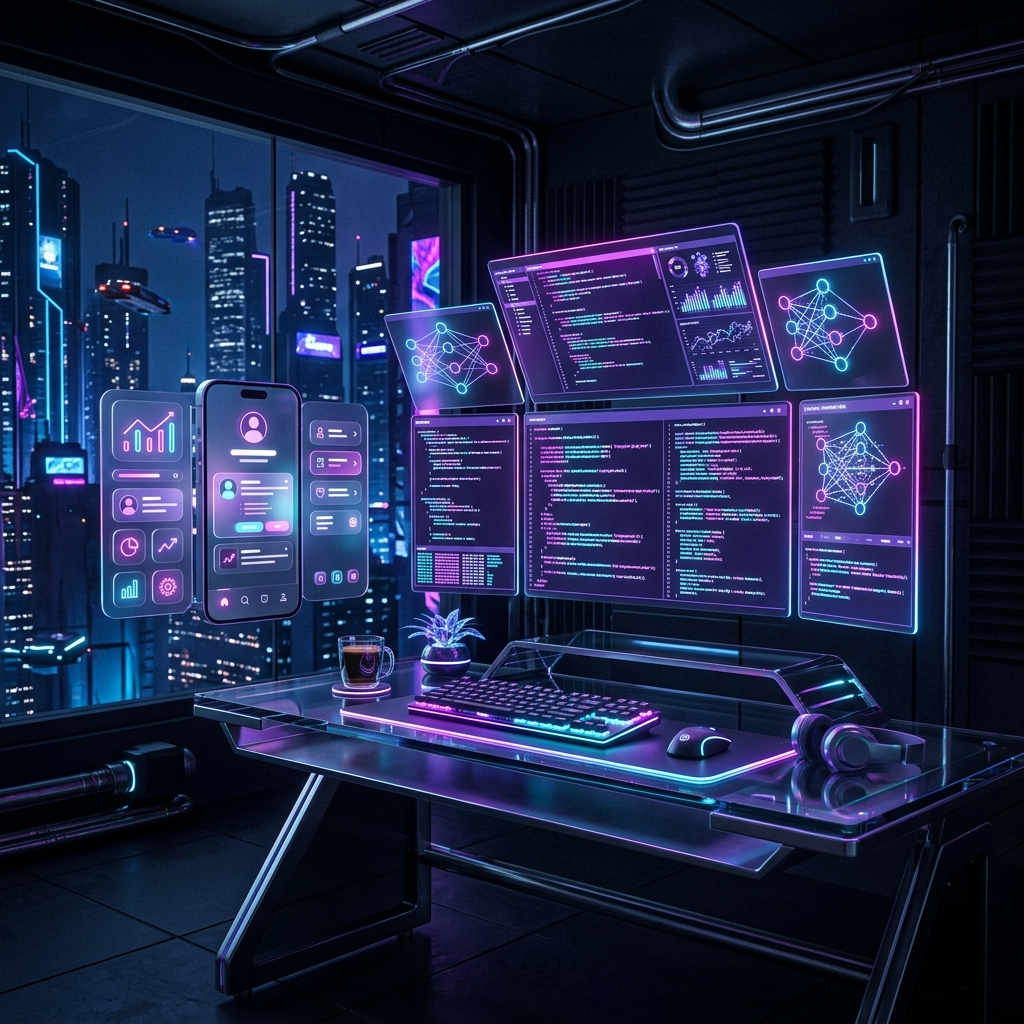
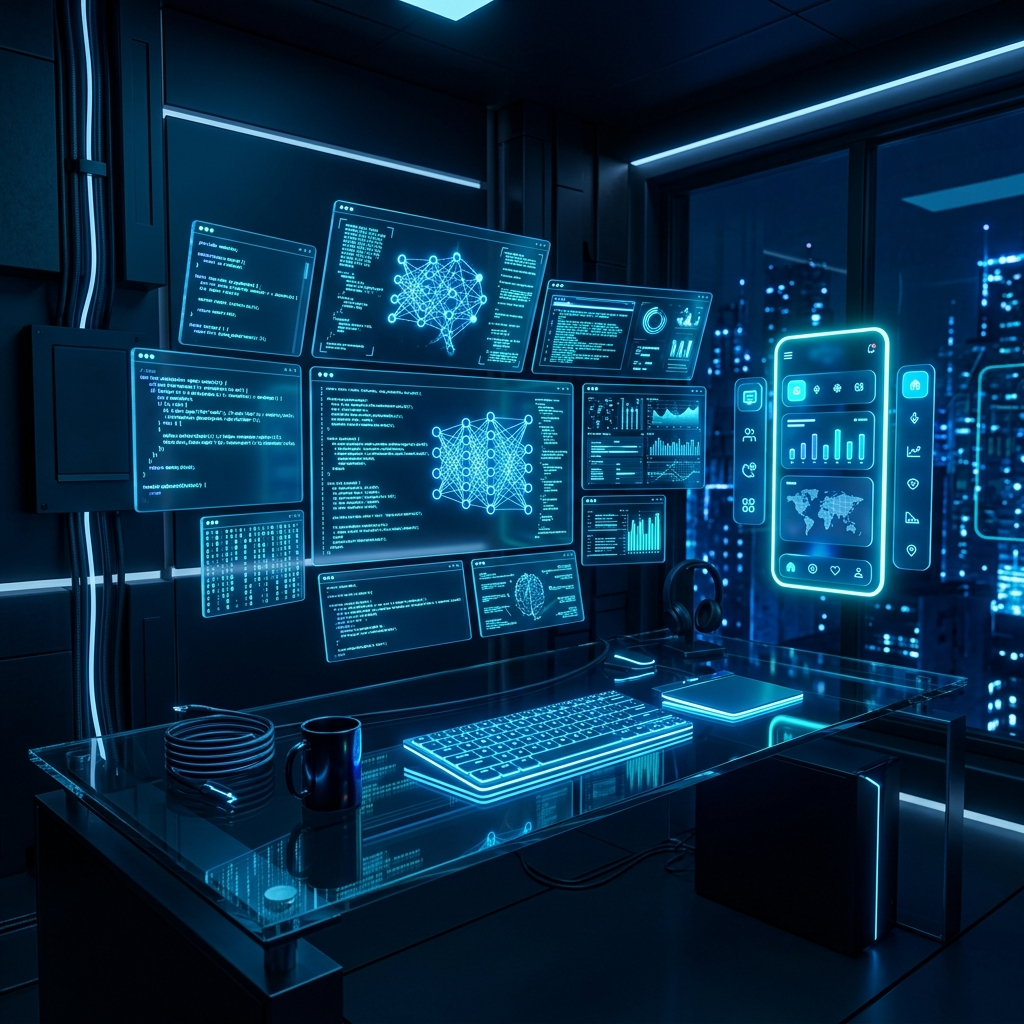
feat: restore original skill tables, unify theme with deep blue and cyan styling

diff --git a/README.md b/README.md
@@ -1,19 +1,19 @@
 <div align="center">
-  <!-- Custom 3D Cyberpunk Workspace Header Image -->
-  <img src="image/cyberpunk_workspace.png" alt="Xavia Workspace" width="100%" style="border-radius: 16px; box-shadow: 0px 8px 32px rgba(139, 92, 246, 0.25); border: 1px solid #8b5cf6;" />
+  <!-- Custom 3D Cyberpunk Workspace Header Image (Blue Theme) -->
+  <img src="image/cyberpunk_workspace.png" alt="Xavia Workspace" width="100%" style="border-radius: 16px; box-shadow: 0px 8px 32px rgba(0, 180, 216, 0.25); border: 1px solid #00b4d8;" />
   
   <br/><br/>
   
-  <!-- Typing SVG with URL encoding fixed -->
+  <!-- Typing SVG (Blue Theme) -->
   <a href="https://git.io/typing-svg">
-    <img src="https://readme-typing-svg.demolab.com?font=Inter&size=24&duration=3000&pause=1000&color=06B6D4&center=true&vCenter=true&multiline=true&repeat=true&width=900&height=100&lines=Hi%20there!%20I'm%20Anh%20Nguyen%20%F0%9F%91%8B%3BFull-Stack%20Software%20Developer%3BPassionate%20about%20AI%20and%20Mobile%20Apps%3BBuilding%20delightful%20user%20experiences%20%E2%9A%A1" alt="Typing SVG" />
+    <img src="https://readme-typing-svg.demolab.com?font=Inter&size=24&duration=3000&pause=1000&color=00B4D8&center=true&vCenter=true&multiline=true&repeat=true&width=900&height=100&lines=Hi%20there!%20I'm%20Anh%20Nguyen%20%F0%9F%91%8B%3BFull-Stack%20Software%20Developer%3BPassionate%20about%20AI%20and%20Mobile%20Apps%3BBuilding%20delightful%20user%20experiences%20%E2%9A%A1" alt="Typing SVG" />
   </a>
 
-  <!-- Sleek Cyber Badges -->
+  <!-- Sleek Blue Badges -->
   <p>
-    <img src="https://komarev.com/ghpvc/?username=nhutanhmc&label=Profile%20Views&color=06B6D4&style=for-the-badge" alt="Profile Views" />
-    <img src="https://img.shields.io/github/followers/nhutanhmc?label=Followers&style=for-the-badge&color=06B6D4&labelColor=0f172a" alt="GitHub Followers" />
-    <img src="https://img.shields.io/github/stars/nhutanhmc?label=Stars&style=for-the-badge&color=06B6D4&labelColor=0f172a" alt="GitHub Stars" />
+    <img src="https://komarev.com/ghpvc/?username=nhutanhmc&label=Profile%20Views&color=00B4D8&style=for-the-badge" alt="Profile Views" />
+    <img src="https://img.shields.io/github/followers/nhutanhmc?label=Followers&style=for-the-badge&color=00B4D8&labelColor=0f172a" alt="GitHub Followers" />
+    <img src="https://img.shields.io/github/stars/nhutanhmc?label=Stars&style=for-the-badge&color=00B4D8&labelColor=0f172a" alt="GitHub Stars" />
   </p>
 </div>
 
@@ -52,22 +52,192 @@ const developer = {
     <td width="45%" valign="top" align="center">
       <br/><br/>
       <!-- Interactive Developer GIF -->
-      <img src="https://raw.githubusercontent.com/devSouvik/devSouvik/master/gif3.gif" width="100%" style="border-radius: 12px; border: 2px solid #06b6d4; box-shadow: 0 4px 15px rgba(6, 182, 212, 0.15);" alt="Cybernetic Animation"/>
+      <img src="https://raw.githubusercontent.com/devSouvik/devSouvik/master/gif3.gif" width="100%" style="border-radius: 12px; border: 2px solid #00b4d8; box-shadow: 0 4px 15px rgba(0, 180, 216, 0.15);" alt="Cybernetic Animation"/>
     </td>
   </tr>
 </table>
 
 ---
 
+<h2 align="center">🌌 HOLOGRAPHIC TECH ORBIT</h2>
+<div align="center">
+  <!-- Interactive animated 3D Tech Orbit SVG (Blue Theme) -->
+  <img src="image/tech_orbit.svg" width="80%" alt="Tech Orbit" style="border-radius: 12px;" />
+</div>
+
+---
+
+<h2 align="center">🛠 Tech Stack & Expertise</h2>
+
+<div align="center">
+
+### 💻 Languages & Core Technologies
+
+<table>
+<tr>
+<td align="center" width="96">
+<img src="https://skillicons.dev/icons?i=js" width="48" height="48" alt="JavaScript" />
+<br>JavaScript
+</td>
+<td align="center" width="96">
+<img src="https://skillicons.dev/icons?i=ts" width="48" height="48" alt="TypeScript" />
+<br>TypeScript
+</td>
+<td align="center" width="96">
+<img src="https://skillicons.dev/icons?i=java" width="48" height="48" alt="Java" />
+<br>Java
+</td>
+<td align="center" width="96">
+<img src="https://skillicons.dev/icons?i=dart" width="48" height="48" alt="Dart" />
+<br>Dart
+</td>
+<td align="center" width="96">
+<img src="https://skillicons.dev/icons?i=html" width="48" height="48" alt="HTML5" />
+<br>HTML5
+</td>
+<td align="center" width="96">
+<img src="https://skillicons.dev/icons?i=css" width="48" height="48" alt="CSS3" />
+<br>CSS3
+</td>
+</tr>
+</table>
+
+### 🚀 Frontend Frameworks & Libraries
+
+<table>
+<tr>
+<td align="center" width="96">
+<img src="https://skillicons.dev/icons?i=react" width="48" height="48" alt="React" />
+<br>React
+</td>
+<td align="center" width="96">
+<img src="https://skillicons.dev/icons?i=nextjs" width="48" height="48" alt="Next.js" />
+<br>Next.js
+</td>
+<td align="center" width="96">
+<img src="https://skillicons.dev/icons?i=vue" width="48" height="48" alt="Vue.js" />
+<br>Vue.js
+</td>
+<td align="center" width="96">
+<img src="https://skillicons.dev/icons?i=flutter" width="48" height="48" alt="Flutter" />
+<br>Flutter
+</td>
+<td align="center" width="96">
+<img src="https://skillicons.dev/icons?i=tailwind" width="48" height="48" alt="Tailwind" />
+<br>Tailwind
+</td>
+<td align="center" width="96">
+<img src="https://skillicons.dev/icons?i=sass" width="48" height="48" alt="Sass" />
+<br>Sass
+</td>
+</tr>
+</table>
+
+### ⚙ Backend & Server Technologies
+
+<table>
+<tr>
+<td align="center" width="96">
+<img src="https://skillicons.dev/icons?i=nodejs" width="48" height="48" alt="Node.js" />
+<br>Node.js
+</td>
+<td align="center" width="96">
+<img src="https://skillicons.dev/icons?i=express" width="48" height="48" alt="Express" />
+<br>Express
+</td>
+<td align="center" width="96">
+<img src="https://skillicons.dev/icons?i=spring" width="48" height="48" alt="Spring" />
+<br>Spring Boot
+</td>
+<td align="center" width="96">
+<img src="https://skillicons.dev/icons?i=graphql" width="48" height="48" alt="GraphQL" />
+<br>GraphQL
+</td>
+<td align="center" width="96">
+<img src="https://skillicons.dev/icons?i=prisma" width="48" height="48" alt="Prisma" />
+<br>Prisma
+</td>
+<td align="center" width="96">
+<img src="https://skillicons.dev/icons?i=nestjs" width="48" height="48" alt="NestJS" />
+<br>NestJS
+</td>
+</tr>
+</table>
+
+### 🗄 Databases & Storage
+
+<table>
+<tr>
+<td align="center" width="96">
+<img src="https://skillicons.dev/icons?i=mongodb" width="48" height="48" alt="MongoDB" />
+<br>MongoDB
+</td>
+<td align="center" width="96">
+<img src="https://skillicons.dev/icons?i=postgresql" width="48" height="48" alt="PostgreSQL" />
+<br>PostgreSQL
+</td>
+<td align="center" width="96">
+<img src="https://skillicons.dev/icons?i=mysql" width="48" height="48" alt="MySQL" />
+<br>MySQL
+</td>
+<td align="center" width="96">
+<img src="https://skillicons.dev/icons?i=redis" width="48" height="48" alt="Redis" />
+<br>Redis
+</td>
+<td align="center" width="96">
+<img src="https://skillicons.dev/icons?i=firebase" width="48" height="48" alt="Firebase" />
+<br>Firebase
+</td>
+<td align="center" width="96">
+<img src="https://skillicons.dev/icons?i=supabase" width="48" height="48" alt="Supabase" />
+<br>Supabase
+</td>
+</tr>
+</table>
+
+### ☁ DevOps & Cloud Services
+
+<table>
+<tr>
+<td align="center" width="96">
+<img src="https://skillicons.dev/icons?i=docker" width="48" height="48" alt="Docker" />
+<br>Docker
+</td>
+<td align="center" width="96">
+<img src="https://skillicons.dev/icons?i=git" width="48" height="48" alt="Git" />
+<br>Git
+</td>
+<td align="center" width="96">
+<img src="https://skillicons.dev/icons?i=github" width="48" height="48" alt="GitHub" />
+<br>GitHub
+</td>
+<td align="center" width="96">
+<img src="https://skillicons.dev/icons?i=vercel" width="48" height="48" alt="Vercel" />
+<br>Vercel
+</td>
+<td align="center" width="96">
+<img src="https://skillicons.dev/icons?i=aws" width="48" height="48" alt="AWS" />
+<br>AWS
+</td>
+<td align="center" width="96">
+<img src="https://skillicons.dev/icons?i=vscode" width="48" height="48" alt="VS Code" />
+<br>VS Code
+</td>
+</tr>
+</table>
+
+</div>
+
+---
+
 <h2 align="center">🔮 3D CONTRIBUTION LANDSCAPE</h2>
 <div align="center">
-  <!-- Night Rainbow 3D graph (using correct name that exists) -->
-  <img src="profile-3d-contrib/profile-night-rainbow.svg" width="100%" alt="3D Contribution Graph" style="border-radius: 12px; border: 1px solid #1e293b;" />
+  <img src="profile-3d-contrib/profile-night-view.svg" width="100%" alt="3D Contribution Graph" style="border-radius: 12px; border: 1px solid #1e293b;" />
 </div>
 
 <br/>
 
-<h2 align="center">🐍 SNAKE CONTRIBUTION GRID</h2>
+<h2 align="center">🐍 BLUE SNAKE CONTRIBUTION GRID</h2>
 <div align="center">
   <picture>
     <source media="(prefers-color-scheme: dark)" srcset="dist/github-contribution-grid-snake-dark.svg" />
@@ -78,36 +248,28 @@ const developer = {
 
 ---
 
-<h2 align="center">🛠 TECH ORBIT MATRIX</h2>
-<div align="center">
-  <!-- Interactive animated 3D Tech Orbit SVG -->
-  <img src="image/tech_orbit.svg" width="80%" alt="Tech Orbit" style="border-radius: 12px;" />
-</div>
-
----
-
 <h2 align="center">📊 PERFORMANCE METRICS</h2>
 <div align="center">
   <table border="0" width="100%">
     <tr>
       <td align="center" width="50%">
-        <img src="https://github-stats-extended.vercel.app/api?username=nhutanhmc&show_icons=true&theme=tokyonight&hide_border=true&border_radius=12&bg_color=0d1117" alt="GitHub Stats" width="100%" />
+        <img src="https://github-stats-extended.vercel.app/api?username=nhutanhmc&show_icons=true&title_color=00b4d8&icon_color=00b4d8&text_color=ffffff&bg_color=0d1117&hide_border=true&border_radius=12" alt="GitHub Stats" width="100%" />
       </td>
       <td align="center" width="50%">
-        <img src="https://github-stats-extended.vercel.app/api/top-langs/?username=nhutanhmc&layout=compact&theme=tokyonight&hide_border=true&border_radius=12&bg_color=0d1117&langs_count=6" alt="Top Languages" width="100%" />
+        <img src="https://github-stats-extended.vercel.app/api/top-langs/?username=nhutanhmc&layout=compact&title_color=00b4d8&icon_color=00b4d8&text_color=ffffff&bg_color=0d1117&hide_border=true&border_radius=12&langs_count=6" alt="Top Languages" width="100%" />
       </td>
     </tr>
     <tr>
       <td align="center" width="50%">
-        <img src="https://github-readme-streak-stats.herokuapp.com/?user=nhutanhmc&theme=tokyonight&hide_border=true&border_radius=12&background=0d1117" alt="GitHub Streak" width="100%" />
+        <img src="https://github-readme-streak-stats.herokuapp.com/?user=nhutanhmc&theme=tokyonight&hide_border=true&border_radius=12&background=0d1117&ring=00b4d8&fire=00b4d8&currStreakLabel=00b4d8" alt="GitHub Streak" width="100%" />
       </td>
       <td align="center" width="50%">
-        <img src="https://github-profile-summary-cards.vercel.app/api/cards/productive-time?username=nhutanhmc&theme=nord_dark&utcOffset=7" alt="Productive Time" width="100%" />
+        <img src="https://github-profile-summary-cards.vercel.app/api/cards/productive-time?username=nhutanhmc&theme=nightowl&utcOffset=7" alt="Productive Time" width="100%" />
       </td>
     </tr>
   </table>
   <br/>
-  <img src="https://github-readme-activity-graph.vercel.app/graph?username=nhutanhmc&bg_color=0d1117&color=87CEEB&line=4A90E2&point=ffffff&area=true&hide_border=true&custom_title=Contribution%20Activity%20Graph&radius=12" width="100%" alt="Contribution Graph"/>
+  <img src="https://github-readme-activity-graph.vercel.app/graph?username=nhutanhmc&bg_color=0d1117&color=00b4d8&line=0077b6&point=ffffff&area=true&hide_border=true&custom_title=Contribution%20Activity%20Graph&radius=12" width="100%" alt="Contribution Graph"/>
 </div>
 
 ---
@@ -147,9 +309,39 @@ const developer = {
 
 ---
 
+<h2 align="center">💡 SERVICE MATRIX (WHAT I DO)</h2>
+<div align="center">
+  <table width="100%">
+    <tr>
+      <td align="center" width="25%">
+        <img src="https://raw.githubusercontent.com/Tarikul-Islam-Anik/Microsoft-Teams-Animated-Emojis/master/Emojis/Objects/Desktop%20Computer.png" width="60" alt="Frontend" />
+        <h4>Frontend</h4>
+        <p>Interactive web interfaces, responsive modules, and responsive layout styling</p>
+      </td>
+      <td align="center" width="25%">
+        <img src="https://raw.githubusercontent.com/Tarikul-Islam-Anik/Microsoft-Teams-Animated-Emojis/master/Emojis/Objects/Gear.png" width="60" alt="Backend" />
+        <h4>Backend</h4>
+        <p>Highly scalable API interfaces, backend servers, and database integration</p>
+      </td>
+      <td align="center" width="25%">
+        <img src="https://raw.githubusercontent.com/Tarikul-Islam-Anik/Microsoft-Teams-Animated-Emojis/master/Emojis/Objects/Mobile%20Phone.png" width="60" alt="Mobile" />
+        <h4>Mobile</h4>
+        <p>Cross-platform application packaging using Flutter with native speed</p>
+      </td>
+      <td align="center" width="25%">
+        <img src="https://raw.githubusercontent.com/Tarikul-Islam-Anik/Microsoft-Teams-Animated-Emojis/master/Emojis/Travel%20and%20places/Rocket.png" width="60" alt="Optimization" />
+        <h4>Optimization</h4>
+        <p>SEO index tuning, load balancing, speed profiling, and high code quality</p>
+      </td>
+    </tr>
+  </table>
+</div>
+
+---
+
 <h2 align="center">🎵 AUDIO PROTOCOL (SOUNDTRACK)</h2>
 <div align="center">
-  <!-- Interactive animated Cyberpunk Music Player SVG -->
+  <!-- Interactive animated Cyberpunk Music Player SVG (Blue Theme) -->
   <img src="image/music_player.svg" width="60%" alt="Audio Terminal" style="border-radius: 15px;" />
 </div>
 
@@ -157,10 +349,10 @@ const developer = {
 
 <h2 align="center">📫 ESTABLISH COMMUNICATIONS</h2>
 <p align="center">
-  <a href="https://github.com/nhutanhmc" target="_blank"><img src="https://img.shields.io/badge/GitHub-181717?style=for-the-badge&logo=github&logoColor=white&labelColor=181717&color=4A90E2" alt="GitHub"/></a>
-  <a href="https://www.linkedin.com/in/anh-nguyen-296b53333/" target="_blank"><img src="https://img.shields.io/badge/LinkedIn-0077B5?style=for-the-badge&logo=linkedin&logoColor=white&labelColor=0077B5&color=4A90E2" alt="LinkedIn"/></a>
-  <a href="https://www.facebook.com/Xavia0205?locale=vi_VN" target="_blank"><img src="https://img.shields.io/badge/Facebook-1877F2?style=for-the-badge&logo=facebook&logoColor=white&labelColor=1877F2&color=4A90E2" alt="Facebook"/></a>
-  <a href="mailto:nhutanhmc@gmail.com"><img src="https://img.shields.io/badge/Gmail-D14836?style=for-the-badge&logo=gmail&logoColor=white&labelColor=D14836&color=4A90E2" alt="Gmail"/></a>
+  <a href="https://github.com/nhutanhmc" target="_blank"><img src="https://img.shields.io/badge/GitHub-181717?style=for-the-badge&logo=github&logoColor=white&labelColor=181717&color=00B4D8" alt="GitHub"/></a>
+  <a href="https://www.linkedin.com/in/anh-nguyen-296b53333/" target="_blank"><img src="https://img.shields.io/badge/LinkedIn-0077B5?style=for-the-badge&logo=linkedin&logoColor=white&labelColor=0077B5&color=00B4D8" alt="LinkedIn"/></a>
+  <a href="https://www.facebook.com/Xavia0205?locale=vi_VN" target="_blank"><img src="https://img.shields.io/badge/Facebook-1877F2?style=for-the-badge&logo=facebook&logoColor=white&labelColor=1877F2&color=00B4D8" alt="Facebook"/></a>
+  <a href="mailto:nhutanhmc@gmail.com"><img src="https://img.shields.io/badge/Gmail-D14836?style=for-the-badge&logo=gmail&logoColor=white&labelColor=D14836&color=00B4D8" alt="Gmail"/></a>
 </p>
 
 <div align="center">
@@ -190,7 +382,7 @@ const developer = {
 ---
 
 <div align="center">
-  <img src="https://capsule-render.vercel.app/api?type=waving&color=0:8b5cf6,50:ec4899,100:3b82f6&height=120&section=footer&text=Thanks%20for%20visiting!%20⭐&fontSize=28&fontColor=ffffff&animation=twinkling&fontAlignY=70" width="100%"/>
+  <img src="https://capsule-render.vercel.app/api?type=waving&color=0:03045e,50:0077b6,100:00e5ff&height=120&section=footer&text=Thanks%20for%20visiting!%20⭐&fontSize=28&fontColor=ffffff&animation=twinkling&fontAlignY=70" width="100%"/>
   <p align="center">
     <img src="https://raw.githubusercontent.com/Tarikul-Islam-Anik/Microsoft-Teams-Animated-Emojis/master/Emojis/Hand%20gestures/Heart%20Hands.png" width="30" />
     <b>Made with ❤, lots of ☕, and countless commits</b>
